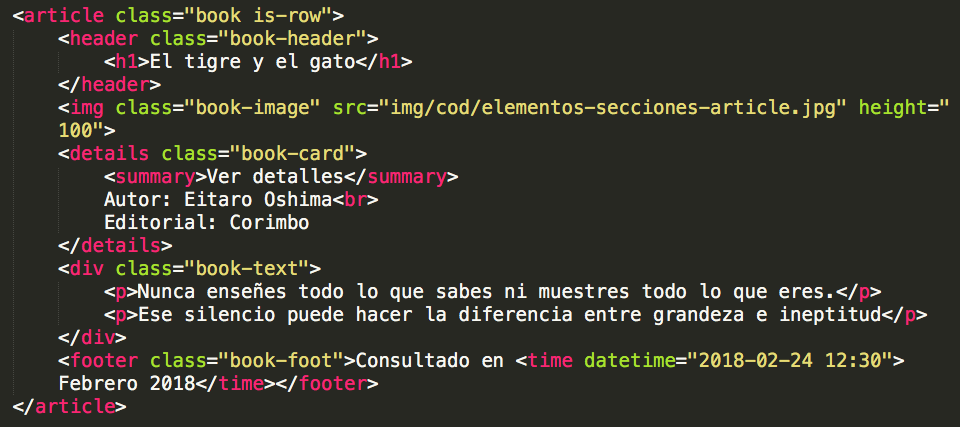
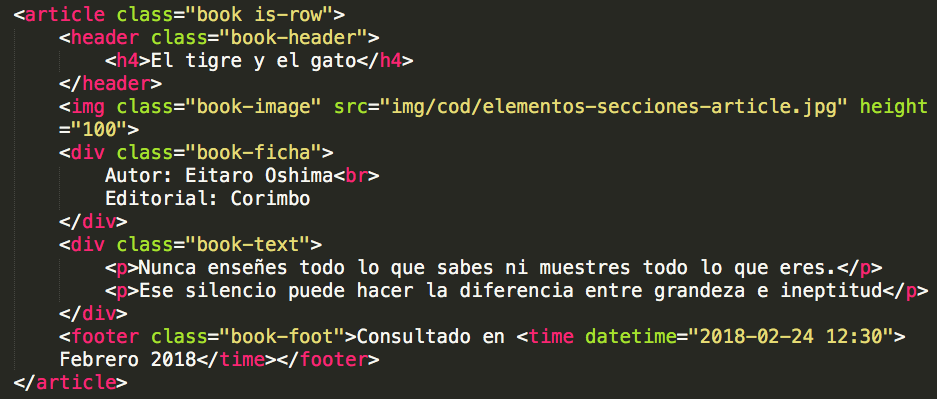
Más pruebas

Changed region(s): [[0.0, 0.0, 0.9904, 0.9925]]

diff --git a/cod1/index.html b/cod1/index.html
@@ -119,23 +119,23 @@
 		<h3>Metadaso del documento</h3>
 		<p>Los metadatos contienen información sobre la página. Recomendamos que los metadatos para estilos y scripts se vinculen a otro archivo que tenga la información.</p>
 		<ul>
-			<li><strong>title</strong> define el título del documento, que se muestra en la barra de título de un navegador o en la pestaña de la página.</li>
+			<li><code>title</code> define el título del documento, que se muestra en la barra de título de un navegador o en la pestaña de la página.</li>
 		</ul>
 
 		<h3>Secciones</h3>
 		<ul>
 			<li>
-				<strong>adress</strong> se debe utilizar para transmitir información de contactos. Notas de uso:
+				<code>adress</code> se debe utilizar para transmitir información de contactos. Notas de uso:
 				<ul>
-					<li>Para representar una dirección que no tiene que ver con una dirección de contacto recomendamos utilizar <strong>p</strong></li>
-					<li>No debe contener otra información que no sea de contacto, como por ejemplo la fecha de publicación (para ello utilizad <strong>time</strong>).</li>
-					<li>Normalmente se utilizará el address dentro de un <strong>footer</strong>.</li>
+					<li>Para representar una dirección que no tiene que ver con una dirección de contacto recomendamos utilizar <code>p</code></li>
+					<li>No debe contener otra información que no sea de contacto, como por ejemplo la fecha de publicación (para ello utilizad <code>time</code>).</li>
+					<li>Normalmente se utilizará el address dentro de un <code>footer</code>.</li>
 				</ul>
 			</li>
-			<li><strong>article</strong> componente independiente reutilizable</li>
-			<li><strong>header</strong> cabecera del bloque</li>
-			<li><strong>footer</strong> pie del bloque</li>
-			<li><strong>aside</strong> contenido relacionado con el artículo pero no forma parte de él (notas al márgen)</li>
+			<li><code>article</code> componente independiente reutilizable</li>
+			<li><code>header</code> cabecera del bloque</li>
+			<li><code>footer</code> pie del bloque</li>
+			<li><code>aside</code> contenido relacionado con el artículo pero no forma parte de él (notas al márgen)</li>
 		</ul>
 		<aside class="example">
 			<div class="example-code">
@@ -156,7 +156,7 @@
 			<div class="example-preview">
 				<article class="book">
 					<header class="book-header">
-						<h1>El tigre y el gato</h1>
+						<h4>El tigre y el gato</h4>
 					</header>
 					<img class="book-image" src="img/cod/elementos-secciones-article.jpg" height="100">
 					<details class="book-card">
@@ -173,42 +173,115 @@
 		</aside>
 
 		<h2>Flexbox</h2>
-		<h3>Lo básico</h3>
-		<p>En flexbox existen dos actores</p>
-		<ul>
-			<li>El <strong>padre</strong>: es el elemento que aloja a los otros elementos.</li>
-			<li>Los <strong>hijos</strong>: son los elementos alojados que dependen directamente del padre.</li>
-		</ul>
+		<section class="flexbox-lo-basico">
+			<h3>Lo básico</h3>
+			<p>En flexbox existen dos actores</p>
+			<ul>
+				<li>El <strong>padre</strong>: es el elemento que aloja a los otros elementos.</li>
+				<li>Los <strong>hijos</strong>: son los elementos alojados que dependen directamente del padre.</li>
+			</ul>
+			<aside class="example">
+				<div class="example-code">
+					<p>HTML</p>
+					<img class="example-code-image" src="img/cod/flexbox-basico-row-html.png">
+				</div>
+				<div class="example-code">
+					<p>CSS</p>
+					<img class="example-code-image" src="img/cod/flexbox-basico-row-css.png">
+				</div>
+			</aside>
+			<article class="book is-row">
+				<header class="book-header">
+					<h4>El tigre y el gato</h4>
+				</header>
+				<img class="book-image" src="img/cod/elementos-secciones-article.jpg" height="100" width="100">
+				<div class="book-ficha">
+					Autor: Eitaro Oshima<br>
+					Editorial: Corimbo
+				</div>
+				<div class="book-text">
+					<p>Nunca enseñes todo lo que sabes ni muestres todo lo que eres.</p>
+					<p>Ese silencio puede hacer la diferencia entre grandeza e ineptitud</p>
+				</div>
+				<footer class="book-foot">Consultado en <time datetime="2018-02-24 12:30">Febrero 2018</time></footer>			
+			</article>
+		</section>
 
-		<aside class="example">
-			<div class="example-code">
-				<p>HTML</p>
-				<img class="example-code-image" src="img/cod/flexbox-basico-row-html.png">
-			</div>
-			<div class="example-code">
-				<p>CSS</p>
-				<img class="example-code-image" src="img/cod/flexbox-basico-row.png">
-			</div>
-		</aside>
+		<section class="flexbox-propiedades">
+			<h3>Propiedades de los hijos</h3>
+			<p>Los hijos dentro del elemento padre se pueden comportar de distinta forma:</p>
+			<ul>
+				<li>Pueden tener un ancho base con la propiedad llamada <code>flex-basis</code>.</li>
+				<li>Pueden contraerse con la propiedad<code>flex-shrink</code></li>
+				<li>Y expandirse con <code>flex-grow</code>. Por defecto es 0.</li>
+			</ul>
+			<p>Por defecto, el ancho de cada elemento es automático, es decir, se ajusta según su contenido, por lo que si una columna necesita más espacio va a ser más ancha que otra que necesite menos espacio.</p>
+			<aside class="example">
+				<div class="example-code">
+					<img class="example-code-image" src="img/cod/flexbox-propiedades-basis.png">
+				</div>
+				<div class="example-preview">
+					<article class="book is-row is-basis">
+						<header class="book-header">
+							<h4>El tigre y el gato</h4>
+						</header>
+						<img class="book-image" src="img/cod/elementos-secciones-article.jpg" height="100" width="100">
+						<div class="book-ficha">
+							Autor: Eitaro Oshima<br>
+							Editorial: Corimbo
+						</div>
+						<div class="book-text">
+							<p>Nunca enseñes todo lo que sabes ni muestres todo lo que eres.</p>
+							<p>Ese silencio puede hacer la diferencia entre grandeza e ineptitud</p>
+						</div>
+						<footer class="book-foot">Consultado en <time datetime="2018-02-24 12:30">Febrero 2018</time></footer>			
+					</article>
+				</div>
+			</aside>
+			<aside class="example">
+				<div class="example-code">
+					<img class="example-code-image" src="img/cod/flexbox-propiedades-shrink.png">
+				</div>
+				<div class="example-preview">
+					<article class="book is-shrink">
+						<header class="book-header">
+							<h4>El tigre y el gato</h4>
+						</header>
+						<img class="book-image" src="img/cod/elementos-secciones-article.jpg" height="100" width="100">
+						<div class="book-ficha">
+							Autor: Eitaro Oshima<br>
+							Editorial: Corimbo
+						</div>
+						<div class="book-text">
+							<p>Nunca enseñes todo lo que sabes ni muestres todo lo que eres.</p>
+							<p>Ese silencio puede hacer la diferencia entre grandeza e ineptitud</p>
+						</div>
+						<footer class="book-foot">Consultado en <time datetime="2018-02-24 12:30">Febrero 2018</time></footer>			
+					</article>
+				</div>
+			</aside>
+		</section>
 
-		<article class="book is-row">
-			<header class="book-header">
-				<h1>El tigre y el gato</h1>
-			</header>
-			<img class="book-image" src="img/cod/elementos-secciones-article.jpg" height="100">
-			<div class="book-ficha">
-				Autor: Eitaro Oshima<br>
-				Editorial: Corimbo
-			</div>
-			<div class="book-text">
-				<p>Nunca enseñes todo lo que sabes ni muestres todo lo que eres.</p>
-				<p>Ese silencio puede hacer la diferencia entre grandeza e ineptitud</p>
-			</div>
-			<footer class="book-foot">Consultado en <time datetime="2018-02-24 12:30">Febrero 2018</time></footer>			
-		</article>
 
+					<article class="book is-colum">
+						<header class="book-header">
+							<h4>El tigre y el gato</h4>
+						</header>
+						<img class="book-image" src="img/cod/elementos-secciones-article.jpg" height="100" width="100">
+						<div class="book-ficha">
+							Autor: Eitaro Oshima<br>
+							Editorial: Corimbo
+						</div>
+						<div class="book-text">
+							<p>Nunca enseñes todo lo que sabes ni muestres todo lo que eres.</p>
+							<p>Ese silencio puede hacer la diferencia entre grandeza e ineptitud</p>
+						</div>
+						<footer class="book-foot">Consultado en <time datetime="2018-02-24 12:30">Febrero 2018</time></footer>			
+					</article>
 
 
 	</article>
+
+	
 </body>
 </html>

diff --git a/cod1/css/book.css b/cod1/css/book.css
@@ -1,7 +1,5 @@
 
-		.book-header h1 {
-			font-size: 18px;
-		}
+
 		.book-foot {
 			color: #999999;
 			font-size: 14px;
@@ -13,8 +11,42 @@
 		.book.is-row {
 			display: flex;
 		}
-		/* Todos los elementos que cuelgan de boo.is-row
+		/* Todos los elementos 
+		que cuelgan de boo.is-row
 		tendrán un margen a la derecha*/
 		.book.is-row > * {
-			margin-right: 10px;
+			padding: 0 10px;
+			border: solid 1px #CCCCCC;
+		}
+
+		/* Todas las columnas 
+		son de 150px */
+		.book.is-row.is-basis > * {
+			flex-basis: 150px;
+		}
+
+		/*Todas las columnas 
+		son de 200px 
+		La cuarta columna no 
+		disminuye de tamaño*/
+		.book.is-shrink {
+			display: flex;
+		}
+		.book.is-shrink > * {
+			padding: 0 10px;
+			border: solid 1px #CCCCCC;
+			flex-basis: 200px;
+		}
+		.book.is-shrink div.book-text{
+			flex-shrink: 0;
+		} 
+
+		.book.is-colum {
+			display: flex;
+			flex-direction: column;
+		}
+		.book.is-colum > * {
+			padding: 0 10px;
+			border: solid 1px #CCCCCC;
+			flex-wrap: 100px;
 		}

diff --git a/cod1/css/reset.css b/cod1/css/reset.css
@@ -10,3 +10,7 @@ h2 {
 	padding: 20px; 
 	margin-top: 40px;
 }
+
+code {
+	color: red;
+}
